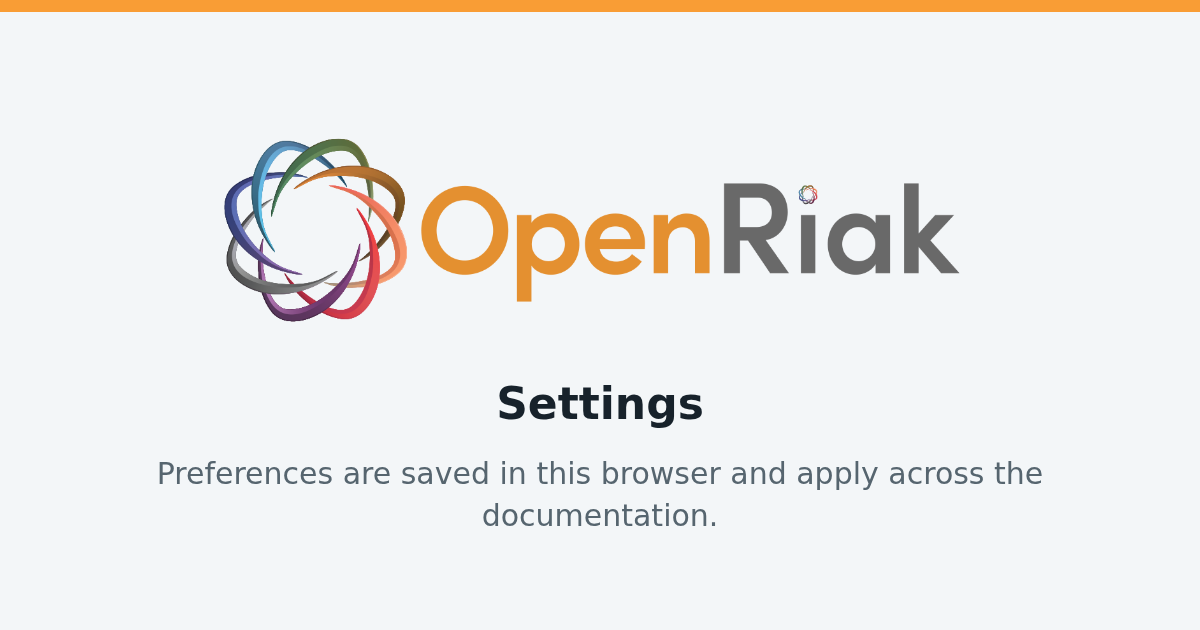
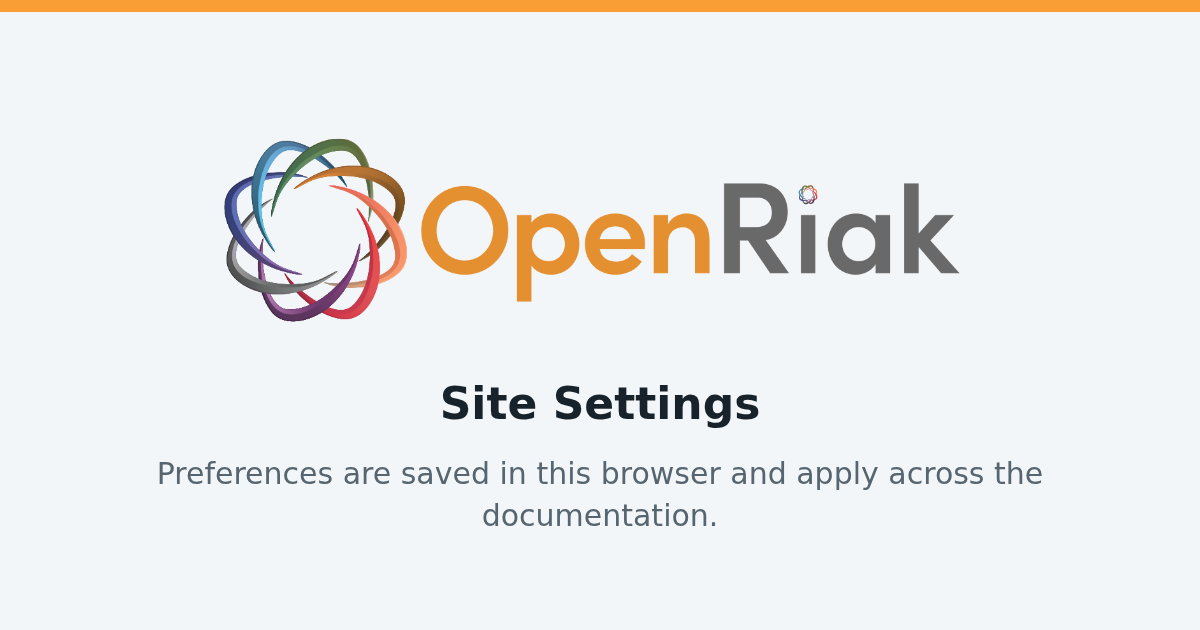
Update Settings to Site Settings

Changed region(s): [[0.37, 0.6032, 0.6475, 0.6937]]

diff --git a/layouts/common-docs/static/js/settings-page.js b/layouts/common-docs/static/js/settings-page.js
@@ -370,23 +370,23 @@
       }).dataset.settingsReset = '';
     });
     el('h3', 'Export', transfer);
-    field(transfer, 'Export group', currentExport, [['all','All settings'], ...Object.entries(names).filter(([key]) => key !== 'transfer')], value => { currentExport = value; });
-    button(transfer, 'Export settings', () => {
+    field(transfer, 'Export group', currentExport, [['all','All site settings'], ...Object.entries(names).filter(([key]) => key !== 'transfer')], value => { currentExport = value; });
+    button(transfer, 'Export site settings', () => {
       const blob = new Blob([JSON.stringify(S.snapshot(currentExport === 'all' ? undefined : [currentExport]), null, 2)], { type: 'application/json' });
       const url = URL.createObjectURL(blob); const link = el('a'); link.href = url; link.download = 'openriak-docs-settings.json'; link.click(); setTimeout(() => URL.revokeObjectURL(url), 1000);
     });
     el('h3', 'Import', transfer);
-    el('p', 'Choose a settings file to validate and preview before applying it.', transfer);
+    el('p', 'Choose a site settings file to validate and preview before applying it.', transfer);
     let pending;
     const fileLabel = el('label', undefined, transfer);
-    el('span', 'Import settings file', fileLabel);
+    el('span', 'Import site settings file', fileLabel);
     const file = el('input', undefined, fileLabel); file.type = 'file'; file.accept = '.json,application/json';
     const mode = field(transfer, 'Import mode', 'merge', [['merge','Merge — keep settings absent from the file'], ['replace','Replace — reset settings absent from the file']], () => {});
     const previewImport = el('pre', 'Choose a file to preview changes.', transfer);
     const applyButton = button(transfer, 'Apply import', () => {
       if (!pending) return;
       if (mode.value === 'replace' && !confirm('Replace all preferences? Settings absent from this file will reset to defaults.')) return;
-      S.apply(pending.settings, mode.value === 'replace' ? S.keys() : []); render(); message('Settings imported.');
+      S.apply(pending.settings, mode.value === 'replace' ? S.keys() : []); render(); message('Site settings imported.');
     }); applyButton.disabled = true;
     file.addEventListener('change', async () => {
       pending = null; applyButton.disabled = true;
@@ -400,9 +400,9 @@
     });
     el('h3', 'Reset', transfer);
     el('p', 'Restore all documentation preferences and example values to their original defaults.', transfer);
-    button(transfer, 'Reset all settings', () => {
+    button(transfer, 'Reset all site settings', () => {
       if (!confirm('Reset all documentation preferences and example values?')) return;
-      S.apply({}, S.keys()); render(); message('All settings reset.');
+      S.apply({}, S.keys()); render(); message('All site settings reset.');
     }).dataset.settingsReset = '';
     searchEntries = [];
     sections.querySelectorAll(':scope > section').forEach(section => {
@@ -496,7 +496,7 @@
     });
     clearDialog.addEventListener('close', () => {
       if (clearDialog.returnValue === 'clear') safe(() => {
-        S.apply({}, S.keys()); render(); message('All settings cleared. Defaults restored.');
+        S.apply({}, S.keys()); render(); message('All site settings cleared. Defaults restored.');
       });
       clearButton.focus({ preventScroll: true });
     });

diff --git a/layouts/common-docs/layouts/partials/settings-sidebar-tools.html b/layouts/common-docs/layouts/partials/settings-sidebar-tools.html
@@ -1,11 +1,11 @@
 <div class="sidebar-tools">
   <div class="sidebar-control search-control" data-search-panel-url="{{ `semantic-search/panel.mjs` | relURL }}?v=20261105-highlighting2" data-semantic-client-url="{{ `semantic-search/client.mjs` | relURL }}?v=20261105-highlighting2" data-semantic-index-url="{{ `semantic-indexes/settings/manifest.json` | relURL }}">
-    <label class="control-label" for="settings-search">Search settings</label>
+    <label class="control-label" for="settings-search">Search site settings</label>
     <div class="search-input-wrap">
-      <input id="settings-search" type="search" data-settings-search data-search-input placeholder="Search all settings" autocomplete="off" aria-controls="settings-search-results" aria-describedby="settings-search-status" aria-keyshortcuts="/ Control+K Meta+K">
+      <input id="settings-search" type="search" data-settings-search data-search-input placeholder="Search all site settings" autocomplete="off" aria-controls="settings-search-results" aria-describedby="settings-search-status" aria-keyshortcuts="/ Control+K Meta+K">
       <kbd class="search-shortcut" aria-hidden="true">/</kbd>
     </div>
-    <div id="settings-search-results" class="search-results" data-settings-results role="region" aria-label="Settings search results" hidden>
+    <div id="settings-search-results" class="search-results" data-settings-results role="region" aria-label="Site Settings search results" hidden>
       <p id="settings-search-status" class="search-status search-status-panel" role="status" aria-live="polite" aria-atomic="true" data-settings-search-status></p>
       <div data-search-items></div>
     </div>

diff --git a/layouts/common-docs/layouts/site-section/settings.html b/layouts/common-docs/layouts/site-section/settings.html
@@ -4,7 +4,7 @@
   <h1>{{ .Title }}</h1>
   <p>Preferences are saved in this browser and apply across the documentation.</p>
   <a data-settings-return hidden>Return to documentation</a>
-  <noscript><p>Enable JavaScript to edit, import, or export browser settings.</p></noscript>
+  <noscript><p>Enable JavaScript to edit, import, or export site settings.</p></noscript>
   {{ if not .Params.settings_group }}
   <div class="settings-cards">
     {{ range hugo.Data.settings_sections }}
@@ -17,7 +17,7 @@
   </div>
   <dialog class="settings-confirmation" data-settings-clear-dialog aria-labelledby="settings-clear-title" aria-describedby="settings-clear-description">
     <form method="dialog">
-      <h2 id="settings-clear-title">Clear all settings?</h2>
+      <h2 id="settings-clear-title">Clear all site settings?</h2>
       <p id="settings-clear-description">This restores all preferences, example values, and saved filters in this browser to their defaults.</p>
       <div class="settings-confirm-actions">
         <button value="cancel" autofocus>Cancel</button>
@@ -32,5 +32,5 @@
 <script type="application/json" id="settings-platforms">{{ partial "settings-products.html" . | jsonify | safeJS }}</script>
 <script src="{{ `js/docs-runtime.js` | relURL }}?v=20261106-advanced" defer></script>
 <script type="application/json" id="settings-code-types">{{ hugo.Data.settings_code_types | jsonify | safeJS }}</script>
-<script src="{{ `js/settings-page.js` | relURL }}?v=20261106-notices" defer></script>
+<script src="{{ `js/settings-page.js` | relURL }}?v=20261106-site-settings" defer></script>
 {{ end }}

diff --git a/tools/assets/settings-social-preview.html b/tools/assets/settings-social-preview.html
@@ -1,5 +1,5 @@
 <!doctype html>
-<html lang="en"><head><meta charset="utf-8"><title>Settings social preview artwork</title><style>
+<html lang="en"><head><meta charset="utf-8"><title>Site Settings social preview artwork</title><style>
 *{box-sizing:border-box}html,body{margin:0;width:1200px;height:630px;overflow:hidden}
 body{background:#f3f6f8;color:#17222b;font-family:Arial,sans-serif;border-top:12px solid #f99d35;display:flex;flex-direction:column;justify-content:center;align-items:center;gap:58px;padding:80px}
 .wordmark{display:block;width:840px;height:auto}
@@ -7,5 +7,5 @@ p{margin:0;color:#56656f;font-size:34px;line-height:1.4;text-align:center;max-wi
 body.section-card{gap:24px}.section-card .wordmark{width:840px;height:250px;object-fit:contain}.section-card h1{font-size:44px;line-height:1.15;margin:0;font-weight:600;text-align:center}.section-card p{font-size:30px}
 
 </style></head><body class="section-card">
-<img class="wordmark" src="../../content/static/common/images/branding/openriak-project.png" alt="OpenRiak"><h1>Settings</h1><p>Preferences are saved in this browser and apply across the documentation.</p>
+<img class="wordmark" src="../../content/static/common/images/branding/openriak-project.png" alt="OpenRiak"><h1>Site Settings</h1><p>Preferences are saved in this browser and apply across the documentation.</p>
 </body></html>

diff --git a/layouts/common-docs/layouts/partials/settings-sidebar-tree.html b/layouts/common-docs/layouts/partials/settings-sidebar-tree.html
@@ -1,5 +1,5 @@
-<a class="sidebar-title" href="{{ `settings/` | relURL }}"{{ if not .page.Params.settings_group }} aria-current="page"{{ end }}>Settings</a>
-<nav class="sidebar-page-tree" tabindex="-1" aria-label="Settings pages"><ul class="site-section-tree">
+<a class="sidebar-title" href="{{ `settings/` | relURL }}"{{ if not .page.Params.settings_group }} aria-current="page"{{ end }}>Site Settings</a>
+<nav class="sidebar-page-tree" tabindex="-1" aria-label="Site Settings pages"><ul class="site-section-tree">
 {{ range sort (where hugo.Data.settings_sections "id" "not in" (slice "advanced" "transfer")) "title" }}<li><a href="{{ printf "settings/%s/" .id | relURL }}"{{ if eq $.page.Params.settings_group .id }} aria-current="page"{{ end }}>{{ .title }}</a></li>{{ end }}
 {{ range where hugo.Data.settings_sections "id" "in" (slice "advanced" "transfer") }}<li class="settings-sidebar-separated"><a href="{{ printf "settings/%s/" .id | relURL }}"{{ if eq $.page.Params.settings_group .id }} aria-current="page"{{ end }}>{{ .title }}</a></li>{{ end }}
 </ul></nav>

diff --git a/layouts/common-docs/layouts/partials/site-header.html b/layouts/common-docs/layouts/partials/site-header.html
@@ -1,7 +1,7 @@
 {{- $page := .page -}}
 {{- $section := .section -}}
 {{- if eq $page.Layout "settings" -}}
-  {{- $section = dict "id" "settings" "name" "Settings" "url" "settings/" "pickerIcon" "settings" -}}
+  {{- $section = dict "id" "settings" "name" "Site Settings" "url" "settings/" "pickerIcon" "settings" -}}
 {{- end -}}
 <script type="application/json" id="example-defaults">{{ hugo.Data.example_values | jsonify | safeJS }}</script>
 <script src="{{ `js/settings-store.js` | relURL }}?v=20261106-advanced" defer></script>
@@ -45,7 +45,7 @@
         <div class="site-section-separator" role="separator"></div>
         <a class="site-section-option{{ if eq $section.id "settings" }} is-active{{ end }}" href="{{ `settings/` | relURL }}" data-settings-link{{ if eq $section.id "settings" }} aria-current="page"{{ end }}>
           {{ partial "site-picker-icon.html" (dict "pickerIcon" "settings") }}
-          <span class="site-section-name">Settings</span>
+          <span class="site-section-name">Site Settings</span>
         </a>
       </div>
     </div>

diff --git a/layouts/homepage/product-logo-preview.html b/layouts/homepage/product-logo-preview.html
@@ -125,7 +125,7 @@
         <div class="choice-footer"><a href="openriak-kv-dark-white.svg" download>Download SVG</a></div>
       </article>
     </div>
-    <p class="note">B · Pale silver is now used for OpenRiak logos in dark mode and on the dark top bar. The homepage, site and version pickers, and Settings share the same treatment. The original colours remain available for light backgrounds; A and C are retained here for comparison.</p>
+    <p class="note">B · Pale silver is now used for OpenRiak logos in dark mode and on the dark top bar. The homepage, site and version pickers, and Site Settings share the same treatment. The original colours remain available for light backgrounds; A and C are retained here for comparison.</p>
     <details>
       <summary>Original logos on light and dark backgrounds</summary>
       <div class="originals">

diff --git a/layouts/common-docs/layouts/partials/search-config.html b/layouts/common-docs/layouts/partials/search-config.html
@@ -2,6 +2,6 @@
 {{- range where hugo.Data.site_sections "id" "ne" "homepage" -}}
   {{- $sections = $sections | append (dict "id" .id "name" .name "product" (eq .pickerIcon "openriak") "defaults" (index hugo.Data.search .id)) -}}
 {{- end -}}
-{{- $sections = $sections | append (dict "id" "settings" "name" "Settings" "product" false "defaults" hugo.Data.search.settings) -}}
+{{- $sections = $sections | append (dict "id" "settings" "name" "Site Settings" "product" false "defaults" hugo.Data.search.settings) -}}
 <script id="search-config" type="application/json">{{ $sections | jsonify | safeJS }}</script>
 <script src="{{ `js/search-preferences.js` | relURL }}?v=20261105-highlighting1" defer></script>

diff --git a/layouts/common-docs/layouts/partials/site-section-sidebar.html b/layouts/common-docs/layouts/partials/site-section-sidebar.html
@@ -1,5 +1,5 @@
 {{ if eq .Layout "settings" }}
-{{ partial "sidebar-shell.html" (dict "class" "site-section-sidebar" "label" "Settings navigation" "context" (dict "page" .) "toolsPartial" "settings-sidebar-tools.html" "treePartial" "settings-sidebar-tree.html" "showSearch" true "showTree" true "showScrim" true) }}
+{{ partial "sidebar-shell.html" (dict "class" "site-section-sidebar" "label" "Site Settings navigation" "context" (dict "page" .) "toolsPartial" "settings-sidebar-tools.html" "treePartial" "settings-sidebar-tree.html" "showSearch" true "showTree" true "showScrim" true) }}
 {{ else }}
 {{- $section := .FirstSection -}}
 {{- $context := dict "page" . "section" $section -}}

diff --git a/layouts/common-docs/static/js/settings-store.js b/layouts/common-docs/static/js/settings-store.js
@@ -113,8 +113,8 @@
       }));
     } catch { /* Settings remain usable if session storage is unavailable. */ }
   };
-  // Remember documentation independently of how Settings is opened. Other site
-  // pages and Settings navigation must never overwrite this destination.
+  // Remember documentation independently of how Site Settings is opened. Other site
+  // pages and Site Settings navigation must never overwrite this destination.
   rememberDocumentation();
   window.addEventListener('pageshow', rememberDocumentation);
   window.addEventListener('hashchange', rememberDocumentation);

diff --git a/layouts/common-docs/layouts/partials/social/resolve.html b/layouts/common-docs/layouts/partials/social/resolve.html
@@ -3,6 +3,9 @@
 {{- $title := partial "social/text.html" $page.Params.social_title -}}
 {{- if not $title -}}
   {{- $title = partial "social/text.html" $page.Title -}}
+  {{- if and (eq $page.Layout "settings") $page.Params.settings_group -}}
+    {{- $title = printf "%s · Site Settings" $title -}}
+  {{- end -}}
   {{- if or $page.IsHome (not $title) -}}{{- $title = $siteTitle -}}
   {{- else if not (in (lower $title) (lower $siteTitle)) -}}{{- $title = printf "%s · %s" $title $siteTitle -}}{{- end -}}
 {{- end -}}

diff --git a/tools/semantic-search/README.md b/tools/semantic-search/README.md
@@ -1,6 +1,6 @@
 # Semantic search
 
-Documentation versions, Community, Settings and both archives use pre-built document embeddings and
+Documentation versions, Community, Site Settings and both archives use pre-built document embeddings and
 browser-side query embedding/search. Text indexes and text-only search remain in
 place. The panel explicitly shows semantic loading, semantic + text search, or
 text-only fallback. Searches make no requests to external inference services.
@@ -17,7 +17,7 @@ text-only fallback. Searches make no requests to external inference services.
 - `content/static/semantic-indexes/SECTION[/VERSION]/`: section/version indexes.
 - `tools/semantic-search/indexes.json`: Markdown source override for the Technical Blog. Hugo exports determine the complete target list.
   Development covers active versions; release covers every published version and
-  both archives, plus Community, Settings and the homepage.
+  both archives, plus Community, Site Settings and the homepage.
 
 Large indexes are split into ordered passage/vector files of at most 45 MiB (below GitHub’s 50 MB warning threshold);
 the browser combines them using the manifest. Small indexes retain their original
@@ -196,7 +196,7 @@ The blog browser test serves fixtures at domain root and `/docs/`. The KV test u
 `OPENRIAK_KV_TEST_BASE` (default `http://localhost:1410/docs/`). Tests check scope,
 visible modes, exact terms, model failures and the 3.4.0 semantic endpoint.
 Discovery/startup tests cover build profiles and startup ordering; the Hugo export
-test checks domain-root/subdirectory deployment and generated Settings content.
+test checks domain-root/subdirectory deployment and generated Site Settings content.
 The evaluation commands print example results for relevance review, not a claim
 that one passage strategy is universally better.
 
@@ -205,7 +205,7 @@ texts ship beside the runtime. Sources:
 https://huggingface.co/Xenova/all-MiniLM-L6-v2 and
 https://huggingface.co/sentence-transformers/all-MiniLM-L6-v2.
 
-Settings and Archived Mailing List panels combine their specialised text results with the shared semantic client. They retain text search if the model or semantic index cannot load. Settings semantic results currently point to settings sections; exact text results can link to individual controls.
+Site Settings and Archived Mailing List panels combine their specialised text results with the shared semantic client. They retain text search if the model or semantic index cannot load. Site Settings semantic results currently point to settings sections; exact text results can link to individual controls.
 
 All semantic panels report download progress (file number and MiB), model preparation, search execution and elapsed time. Index, model and WASM downloads retry network failures, stalled transfers (30 seconds without data), HTTP 408/429 and server errors up to twice, after 1 and 2 seconds. Other HTTP errors, including 404/403, are not retried. Failed transfers restart the current file; completed index parts are retained for the current load. Exhausted retries retain text search.
 
@@ -219,8 +219,8 @@ Search status reserves two fixed rows: text-search progress and counts on the fi
 
 `layouts/common-docs/data/search.json` configures the initial text/semantic switches and result timing for each site section. Both search types default to `true`; `timing` is `asap` or `together`. The same configuration is loaded by core and archive builds. Product preferences cover all versions, including legacy Riak URLs. The homepage is excluded.
 
-Settings → Search presents these defaults with section logos and browser overrides. Overrides use `openriak-docs-search:SECTION` and participate in settings export, import and reset. Disabled types are not run; a disabled semantic search does not load its model or vectors. Disabling an active semantic search terminates its worker and aborts its index requests. Text search on documentation/blog pages still uses the existing passage index as its text corpus.
+Site Settings → Search presents these defaults with section logos and browser overrides. Overrides use `openriak-docs-search:SECTION` and participate in settings export, import and reset. Disabled types are not run; a disabled semantic search does not load its model or vectors. Disabling an active semantic search terminates its worker and aborts its index requests. Text search on documentation/blog pages still uses the existing passage index as its text corpus.
 
 ASAP displays each enabled type's results as they arrive. Together waits for all enabled types to finish (including failure), so disabling one type does not cause an indefinite wait. Semantic-only results exclude lexical ranking. Inline links and the both-disabled choices save the selected section preference and rerun the current query.
 
-Result highlighting is enabled by default per section (`highlight: true` in the shared search configuration). Settings → Search can override it independently of text/semantic search. Enabled results highlight literal query terms safely in titles/snippets and carry those terms to the destination page. Disabling highlighting removes both marks and highlight query parameters from new result links, while preserving other URL parameters and anchors.
+Result highlighting is enabled by default per section (`highlight: true` in the shared search configuration). Site Settings → Search can override it independently of text/semantic search. Enabled results highlight literal query terms safely in titles/snippets and carry those terms to the destination page. Disabling highlighting removes both marks and highlight query parameters from new result links, while preserving other URL parameters and anchors.
